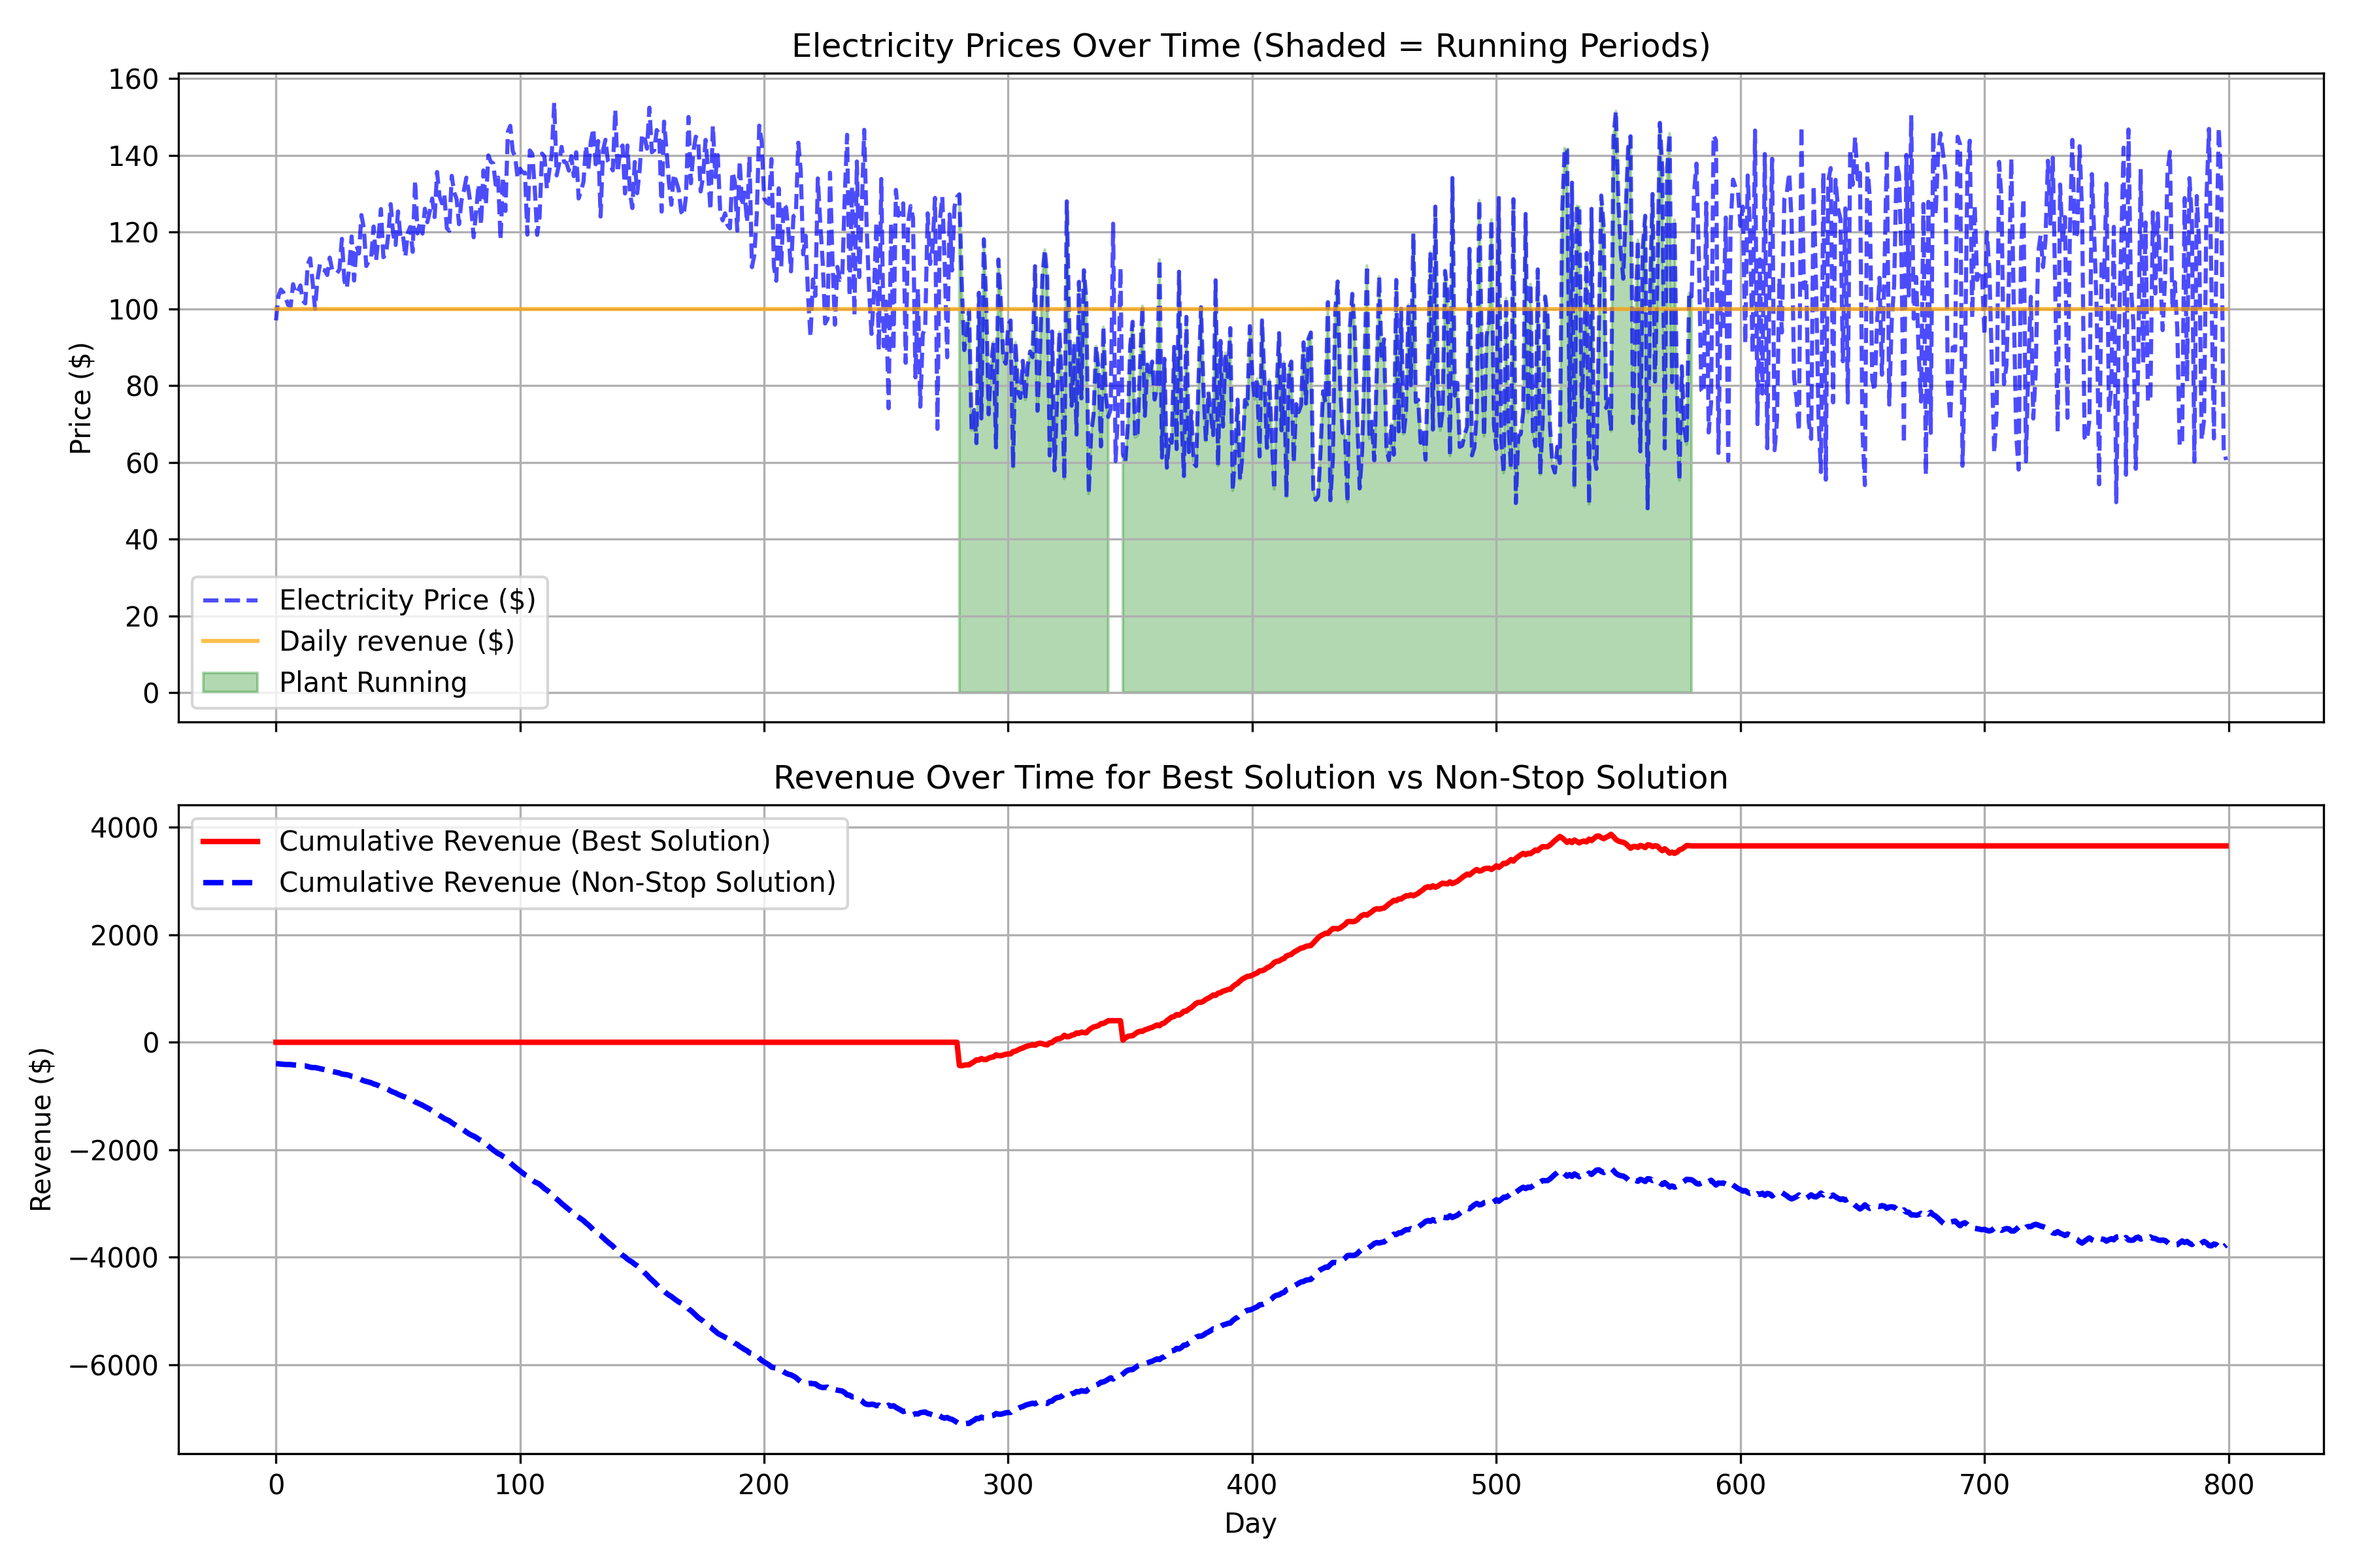
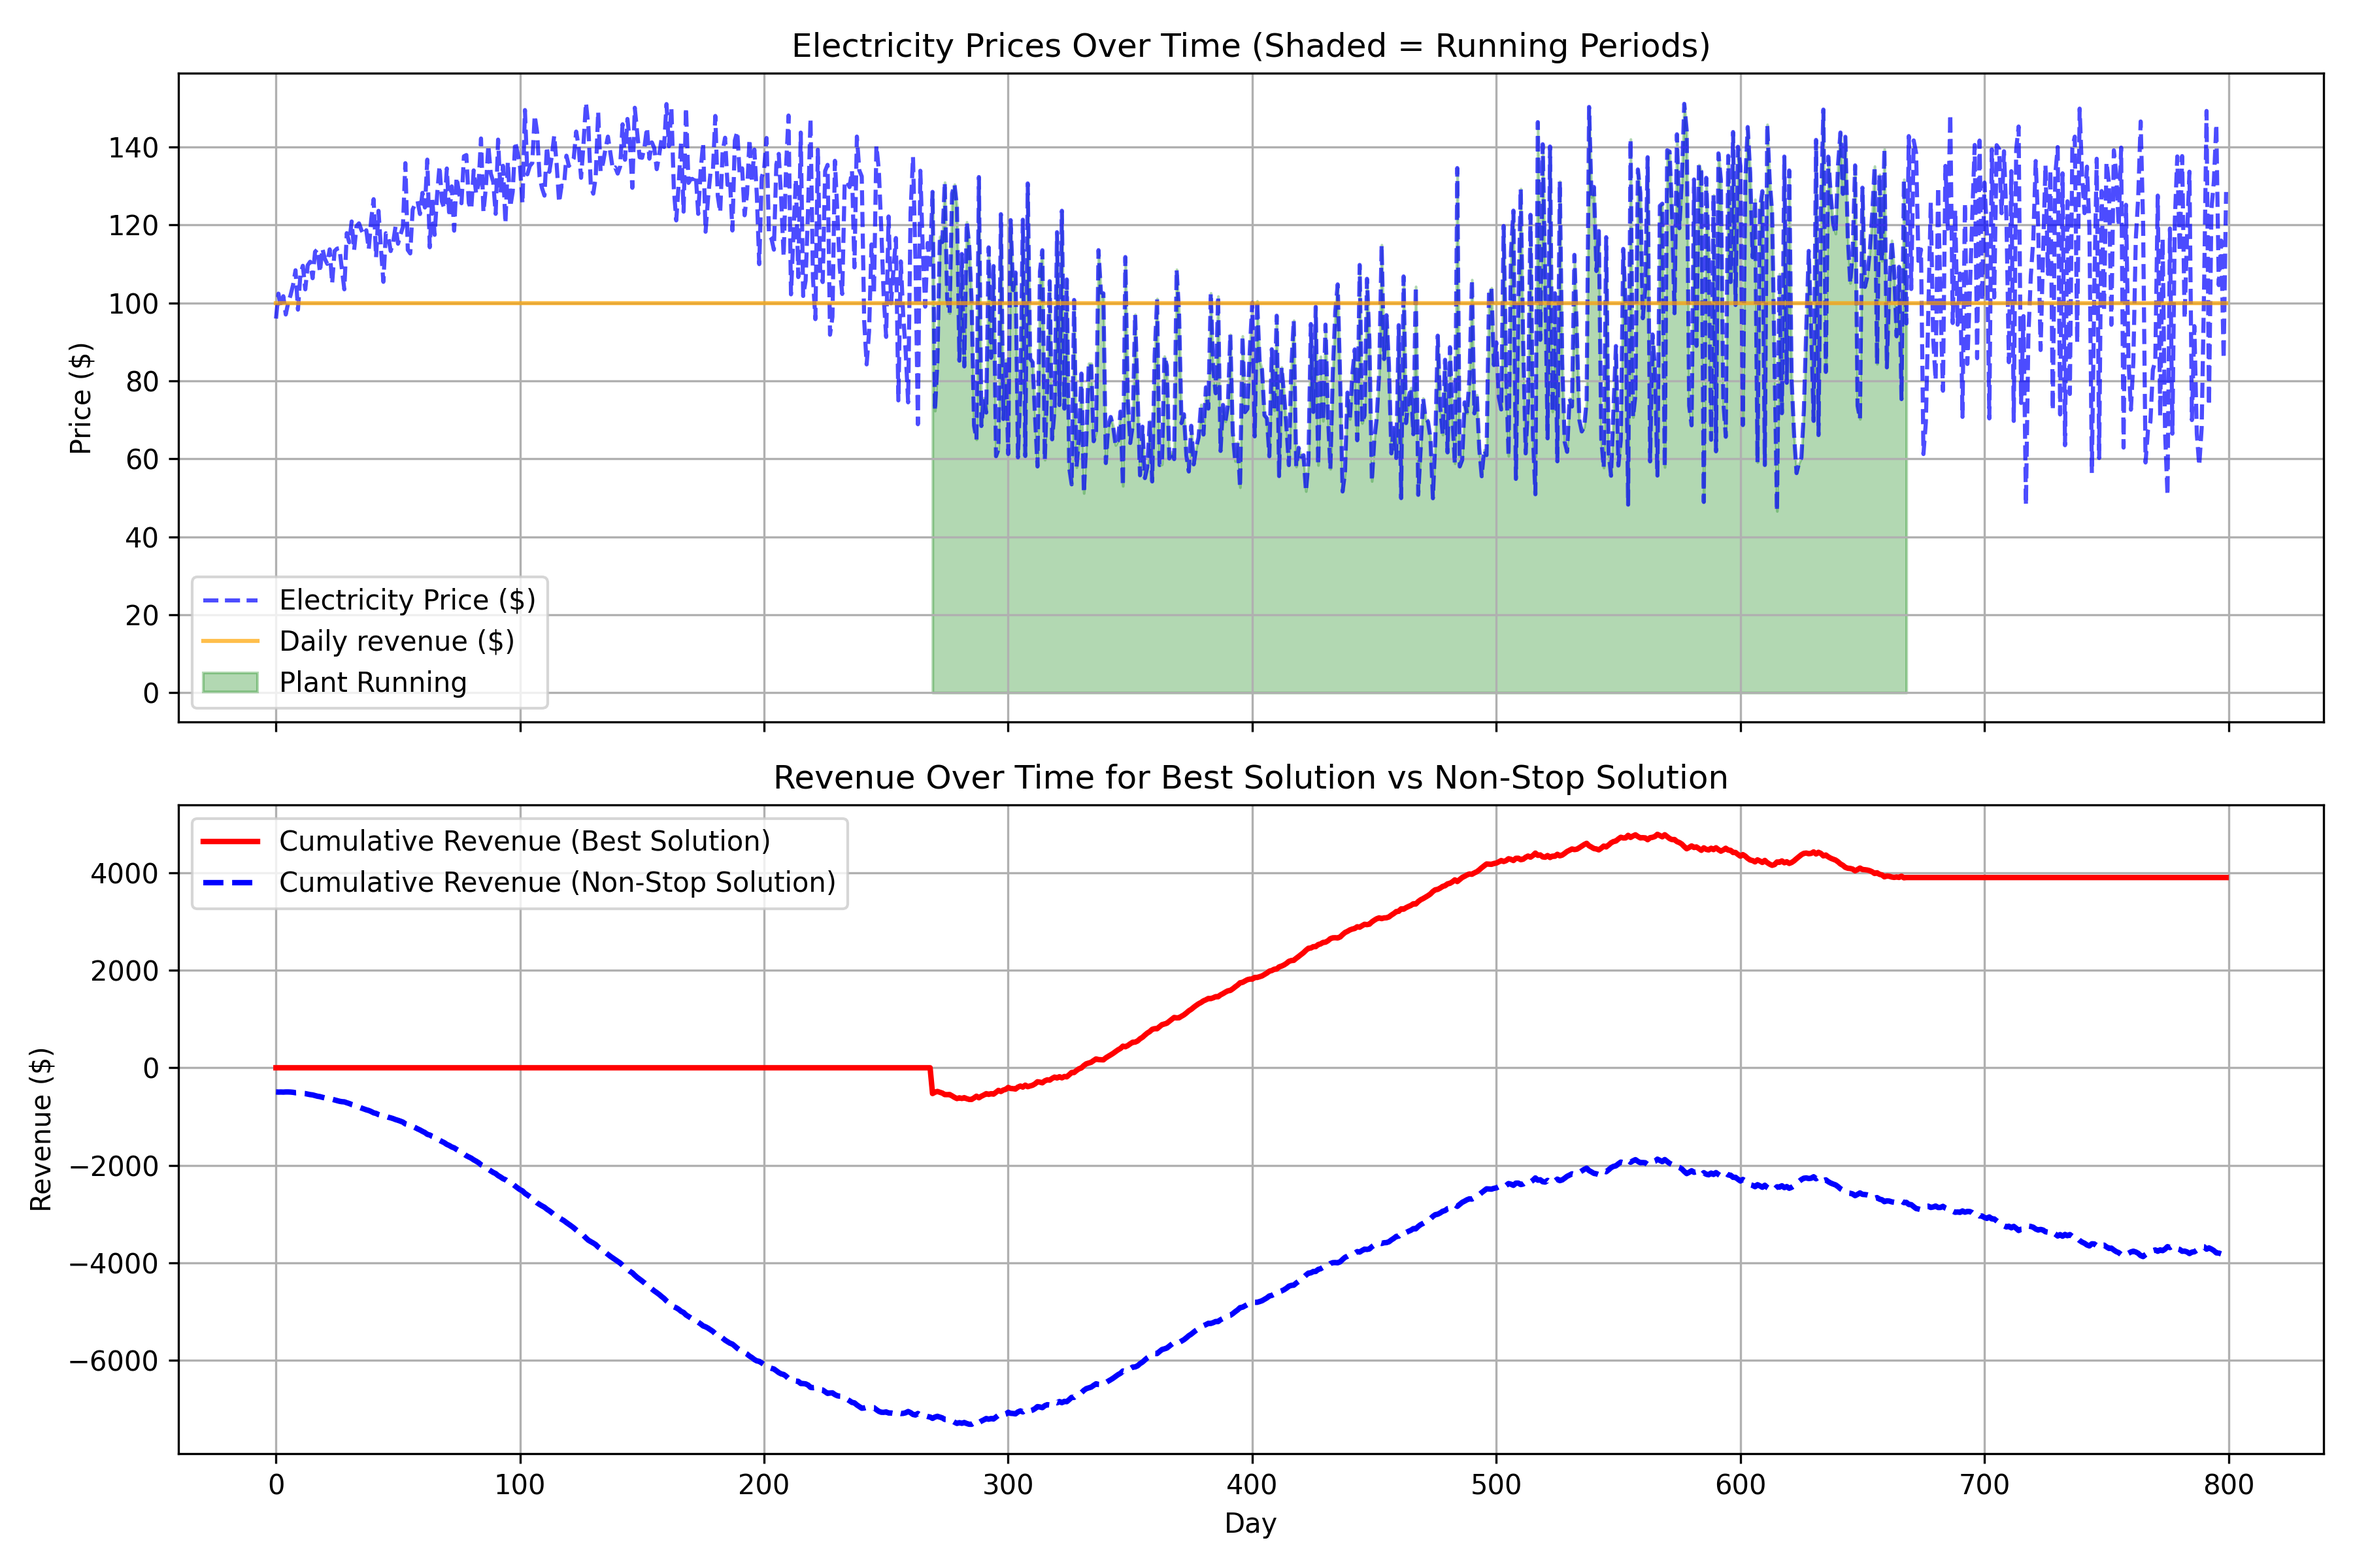
Reseeded random, added secondary steady-state training

diff --git a/pygad_plant_sim.py b/pygad_plant_sim.py
@@ -7,11 +7,11 @@ import os
 
 # ======================== PROBLEM PARAMETERS ========================
 N = 800  # Number of available items (days)
-restart_cost = 400  # Cost to restart the plant after it being shut down
+restart_cost = 500  # Cost to restart the plant after it being shut down
 prod_per_day = 100  # Revenue from a running day (smallest possible time frame)
 
 # List of electricity prices (randomized for testing)
-random.seed(69)
+random.seed(1)
 # Fuzzy sine wave
 prices = [100 + random.uniform(30, 50)*math.sin((i/80)*random.uniform(0.6, 1.2)) + random.randint(-5, 5) for i in range(N)]
 # prices = [0 + random.randint(-3, 3) for i in range(20)] + [20 + random.randint(-3, 3) for i in range(20)]\
@@ -77,6 +77,22 @@ ga_instance = pygad.GA(
 
 # ======================== RUN GA ========================
 ga_instance.run()  # Start the genetic algorithm
+
+# ======================== SECONDARY TRAINING WITH STEADY-STATE SELECTION ========================
+solution, solution_fitness, solution_idx = ga_instance.best_solution()
+
+ga_instance = pygad.GA(
+    num_generations=num_generations//4,
+    num_parents_mating=num_parents_mating,
+    fitness_func=lambda ga, sol, idx: fitness_func(ga, sol, idx),  # Fitness function only returns revenue
+    sol_per_pop=sol_per_pop,
+    num_genes=num_genes,
+    parent_selection_type="sss",  # Steady-State Selection
+    keep_parents=4,
+    crossover_type="two_points",
+    mutation_type=binary_mutation,  # Use custom mutation
+    initial_population=[solution for _ in range(sol_per_pop)]
+)
 
 # ======================== OUTPUT RESULTS ========================
 solution, solution_fitness, solution_idx = ga_instance.best_solution()
